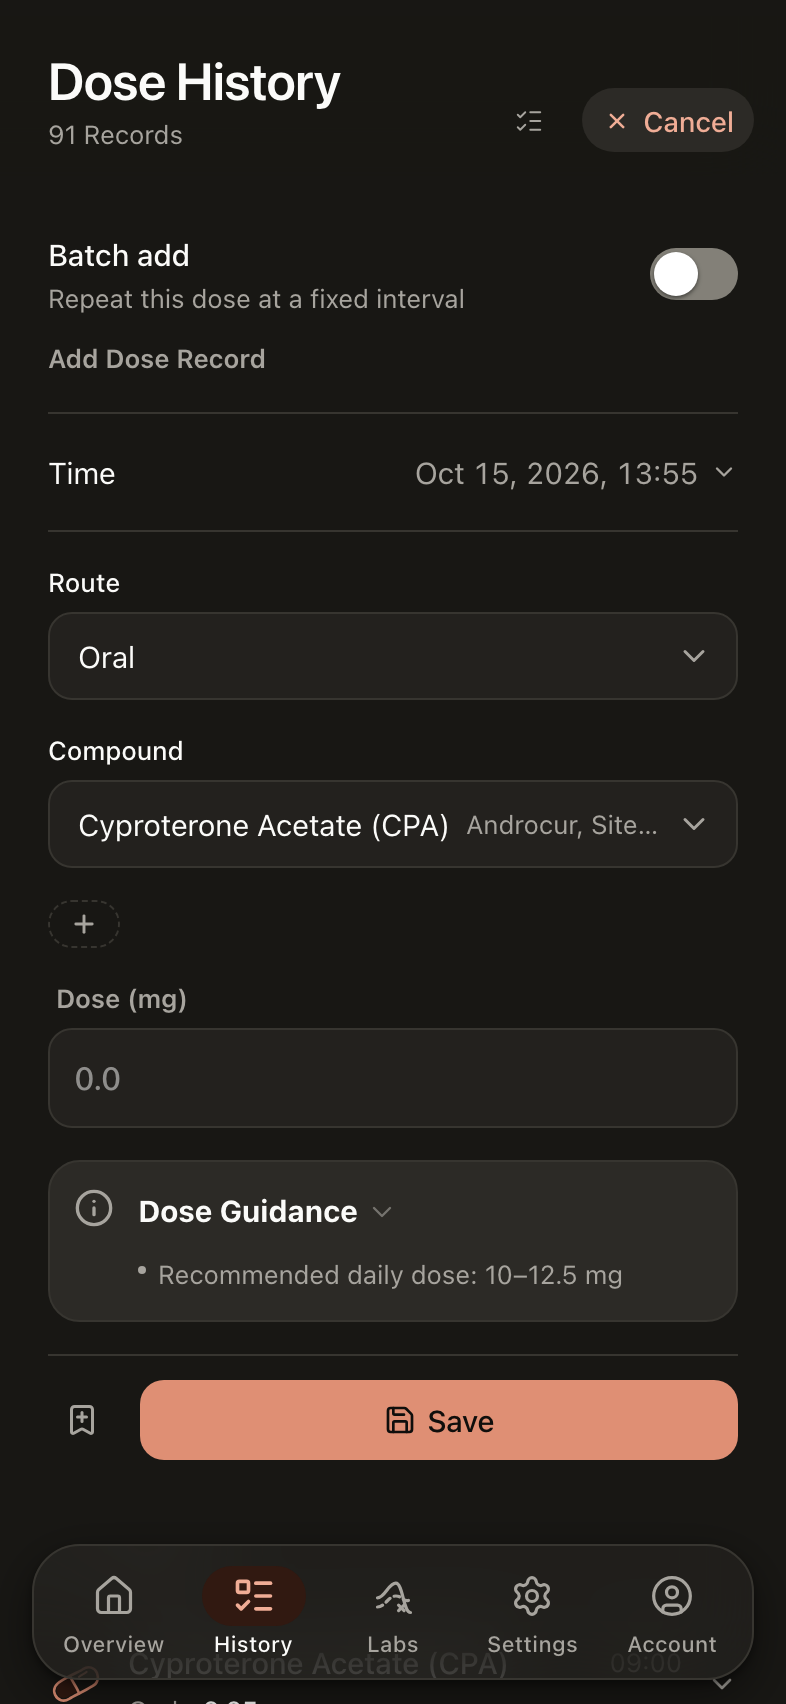
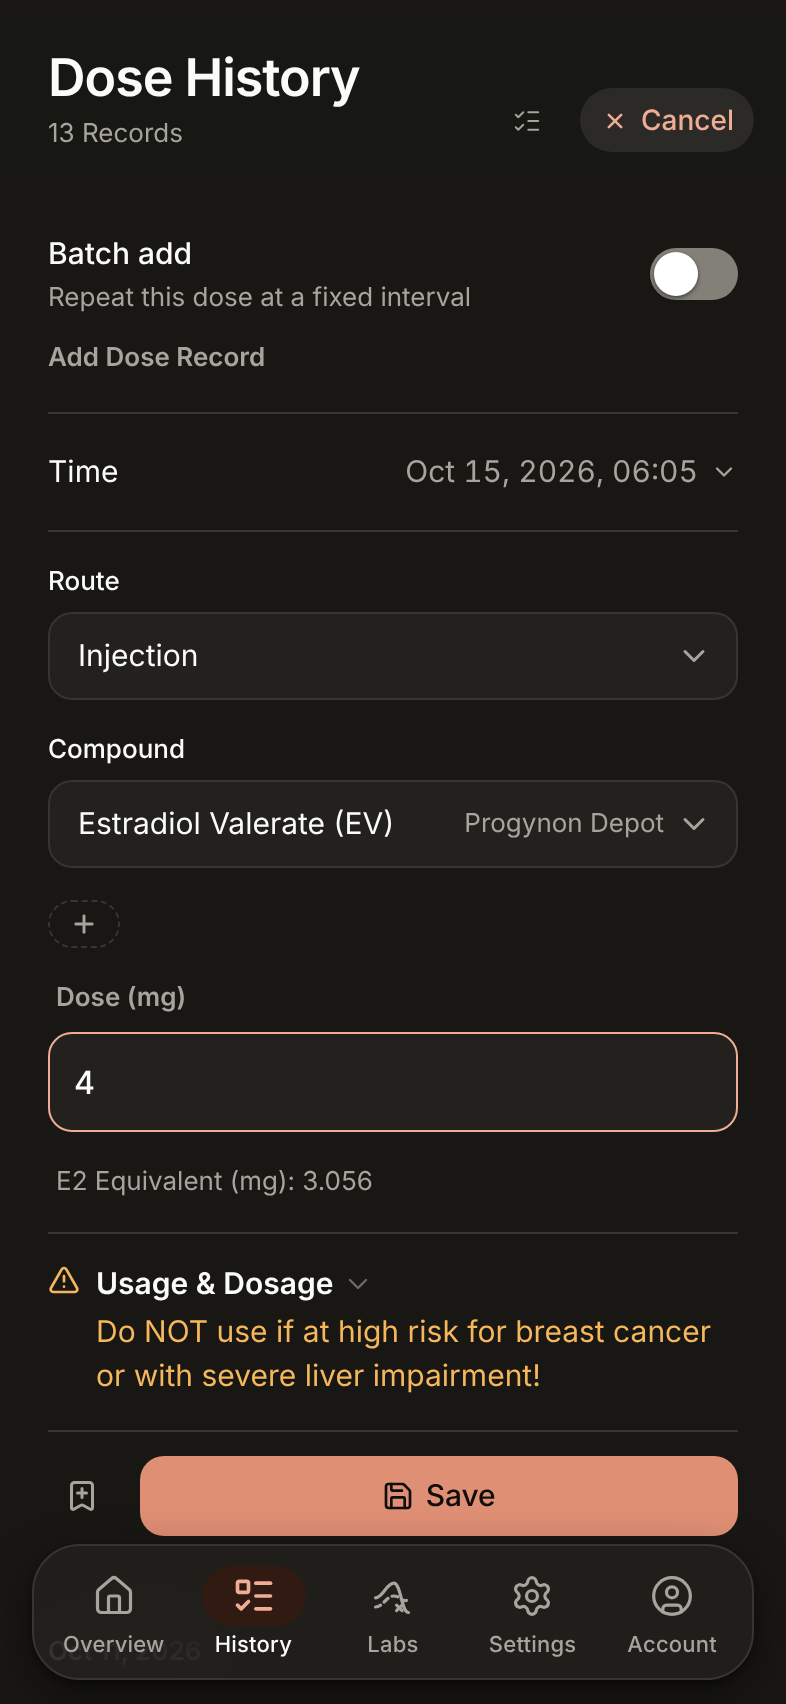
README pictures: estradiol only, with timeline and what-if screens
Claude-Session: https://claude.ai/code/session_01DW1JAsoDDrEutHcMnQpYhR

diff --git a/design/readme/seed.js b/design/readme/seed.js
@@ -1,7 +1,6 @@
 // Sample records for the README screenshots, written before the app loads:
-// weekly 4 mg estradiol valerate injections and a quarter tablet of
-// cyproterone acetate a day for twelve weeks, two trough lab results, a
-// medication plan and supplies. Times are relative to now.
+// weekly 4 mg estradiol valerate injections for twelve weeks, two trough lab
+// results, a medication plan and a vial in supplies. Times are relative to now.
 localStorage.setItem('app-hide-site-label', 'true');
 localStorage.setItem('app-onboarded', 'true');
 (() => {
@@ -10,18 +9,10 @@ localStorage.setItem('app-onboarded', 'true');
     const nowH = now / 3600000;
     const day = 24;
     const ev = [];
-    // Weekly 5 mg EV injections for 12 weeks, Sunday evenings
     for (let w = 12; w >= 0; w--) {
         const t = nowH - w * 7 * day - 4 * day - 3;
         if (t < nowH)
             ev.push({ id: 'ev' + w, route: 'injection', timeH: t, doseMG: 4, ester: 'EV', extras: {}, updatedAt: now });
-    }
-    // Daily 6.25 mg CPA for 12 weeks (quarter tablet), skip a few
-    for (let d = 84; d >= 0; d--) {
-        if (d % 13 === 5) continue;
-        const t = Math.floor(nowH / 24 - d) * 24 + 9 - 8;
-        if (t < nowH)
-            ev.push({ id: 'cpa' + d, route: 'oral', timeH: t, doseMG: 6.25, ester: 'CPA', extras: {}, updatedAt: now });
     }
     localStorage.setItem('hrt-events', JSON.stringify(ev));
     localStorage.setItem(
@@ -49,7 +40,6 @@ localStorage.setItem('app-onboarded', 'true');
         'hrt-plan',
         JSON.stringify([
             { id: 'p1', route: 'injection', ester: 'EV', doseMG: 4, extras: {}, everyDays: 7, timesPerDay: 1 },
-            { id: 'p2', route: 'oral', ester: 'CPA', doseMG: 6.25, extras: {}, everyDays: 1, timesPerDay: 1 },
         ]),
     );
     localStorage.setItem(
@@ -61,14 +51,6 @@ localStorage.setItem('app-onboarded', 'true');
                 ester: 'EV',
                 pack: { kind: 'vial', ml: 10, mgPerMl: 5 },
                 count: 2,
-                startedAt: now - 60 * 86400000,
-            },
-            {
-                id: 's2',
-                route: 'oral',
-                ester: 'CPA',
-                pack: { kind: 'pill', mg: 25 },
-                count: 30,
                 startedAt: now - 60 * 86400000,
             },
         ]),

diff --git a/design/readme/hero.html b/design/readme/hero.html
@@ -224,7 +224,7 @@
                 </li>
             </ul>
         </div>
-        <div class="phone back"><img data-shot="labs" alt="" /></div>
+        <div class="phone back"><img data-shot="timeline" alt="" /></div>
         <div class="phone front"><img data-shot="overview" alt="" /></div>
         <script>
             // render.cjs opens this page as hero.html?theme=dark for the dark picture.

diff --git a/README.md b/README.md
@@ -2,7 +2,7 @@
 
 <picture>
   <source media="(prefers-color-scheme: dark)" srcset="./docs/images/hero-dark.png" />
-  <img src="./docs/images/hero-light.png" alt="Oyama's HRT Tracker on a phone: the current estimated estradiol level, today's doses and the hormone level timeline, next to the lab results page" />
+  <img src="./docs/images/hero-light.png" alt="Oyama's HRT Tracker on a phone: the current estimated estradiol level, today's dose and the hormone level timeline, next to a month of estradiol levels" />
 </picture>
 
 **Oyama's HRT Tracker** is a privacy-focused tool for logging Hormone Replacement Therapy (HRT) and simulating the hormone levels your doses produce. It has a feminizing mode (estradiol, plus cyproterone acetate) and a masculinizing mode (testosterone), and it can also log other adjunct drugs.
@@ -78,33 +78,49 @@ This project has since adjusted and extended the model: it adds testosterone (in
 
 <table>
   <tr>
-    <td width="25%" valign="top">
+    <td width="33%" valign="top">
       <picture>
         <source media="(prefers-color-scheme: dark)" srcset="./docs/images/screenshot-overview-dark.png" />
         <img src="./docs/images/screenshot-overview-light.png" alt="Overview screen" />
       </picture>
       <br /><b>Overview 概览</b><br />The current estimate, today's doses and the level timeline
     </td>
-    <td width="25%" valign="top">
+    <td width="33%" valign="top">
+      <picture>
+        <source media="(prefers-color-scheme: dark)" srcset="./docs/images/screenshot-timeline-dark.png" />
+        <img src="./docs/images/screenshot-timeline-light.png" alt="Hormone level timeline screen" />
+      </picture>
+      <br /><b>Timeline 浓度曲线</b><br />A month of estradiol levels and a calendar of doses
+    </td>
+    <td width="33%" valign="top">
+      <picture>
+        <source media="(prefers-color-scheme: dark)" srcset="./docs/images/screenshot-whatif-dark.png" />
+        <img src="./docs/images/screenshot-whatif-light.png" alt="What-if screen" />
+      </picture>
+      <br /><b>What-if 方案试算</b><br />Compare carrying on as now with a planned change
+    </td>
+  </tr>
+  <tr>
+    <td width="33%" valign="top">
       <picture>
         <source media="(prefers-color-scheme: dark)" srcset="./docs/images/screenshot-history-dark.png" />
         <img src="./docs/images/screenshot-history-light.png" alt="History screen" />
       </picture>
       <br /><b>History 记录</b><br />Every dose, grouped by day
     </td>
-    <td width="25%" valign="top">
+    <td width="33%" valign="top">
       <picture>
         <source media="(prefers-color-scheme: dark)" srcset="./docs/images/screenshot-labs-dark.png" />
         <img src="./docs/images/screenshot-labs-light.png" alt="Lab results screen" />
       </picture>
       <br /><b>Labs 检查</b><br />Lab results next to the model, used to calibrate it
     </td>
-    <td width="25%" valign="top">
+    <td width="33%" valign="top">
       <picture>
         <source media="(prefers-color-scheme: dark)" srcset="./docs/images/screenshot-dose-dark.png" />
         <img src="./docs/images/screenshot-dose-light.png" alt="Log a dose screen" />
       </picture>
-      <br /><b>Log a dose 记录剂量</b><br />Route, compound and dose, with guidance
+      <br /><b>Log a dose 记录剂量</b><br />Route, compound and dose, with its estradiol equivalent
     </td>
   </tr>
 </table>

diff --git a/design/readme/README.md b/design/readme/README.md
@@ -7,12 +7,12 @@ design system: the white page (warm near-black in dark), the system type stack,
 `src/components/Doodle.tsx` on `surface-muted` tiles, and real app screenshots
 in frames with a `border` hairline and `shadow-md`.
 
-`render.cjs` also takes the four screenshots in `docs/images`
+`render.cjs` also takes the six screenshots in `docs/images`
 (`screenshot-<page>-<theme>.png`), at phone size (393 by 852, twice the
 pixels), in English. Before the app loads it writes the sample records in
-`seed.js`: weekly 4 mg estradiol valerate injections and a quarter tablet of
-cyproterone acetate a day for twelve weeks, with two trough lab results. The
-curve and figures on screen are the app's own model output for those records.
+`seed.js`: weekly 4 mg estradiol valerate injections for twelve weeks, with
+two trough lab results. The curve and figures on screen are the app's own model
+output for those records.
 
 To regenerate, start the app and run:
 
